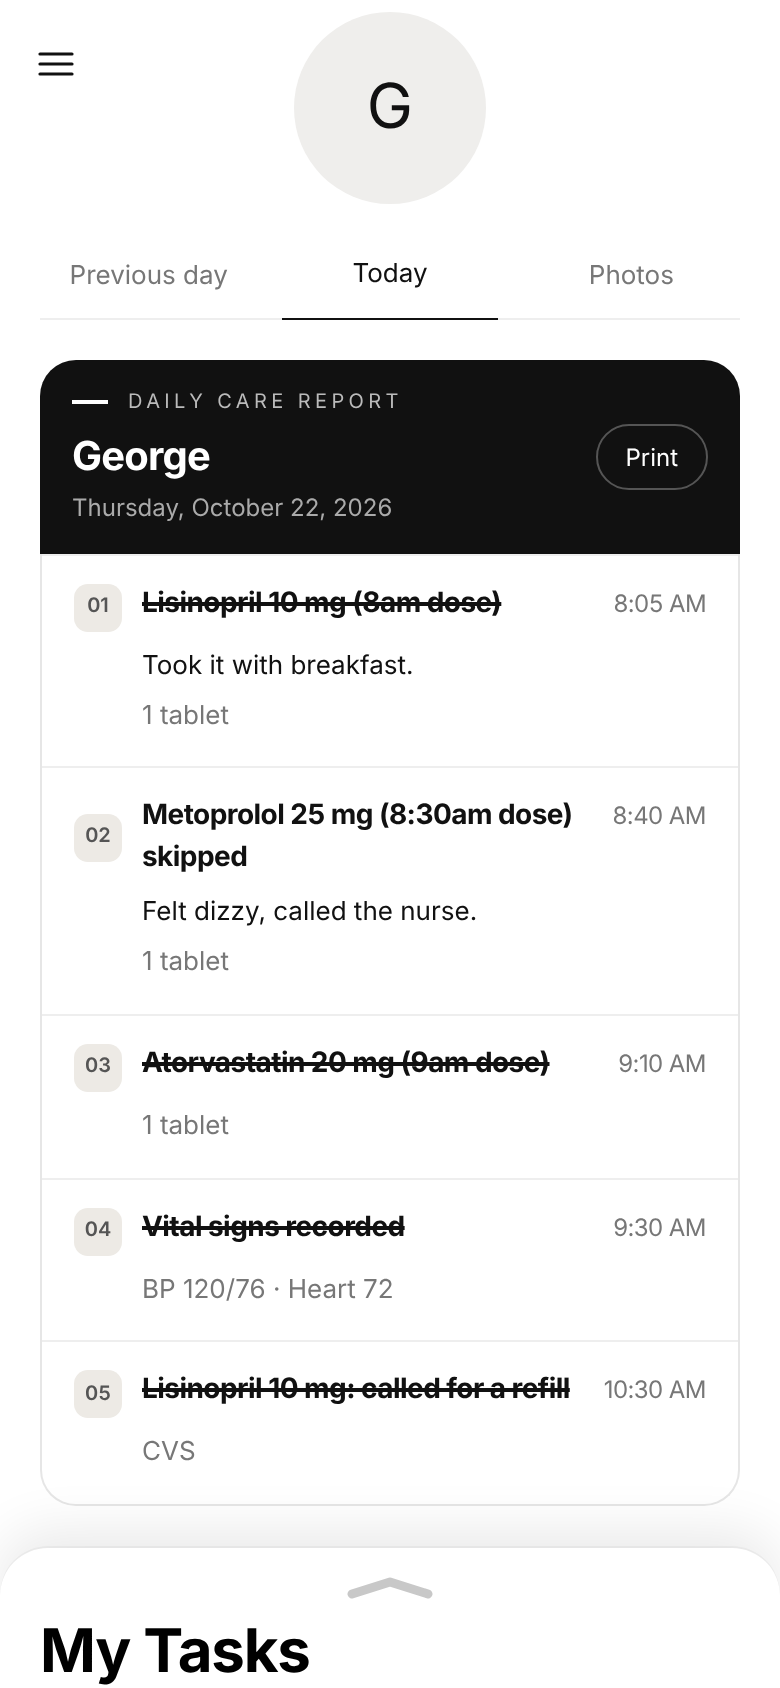
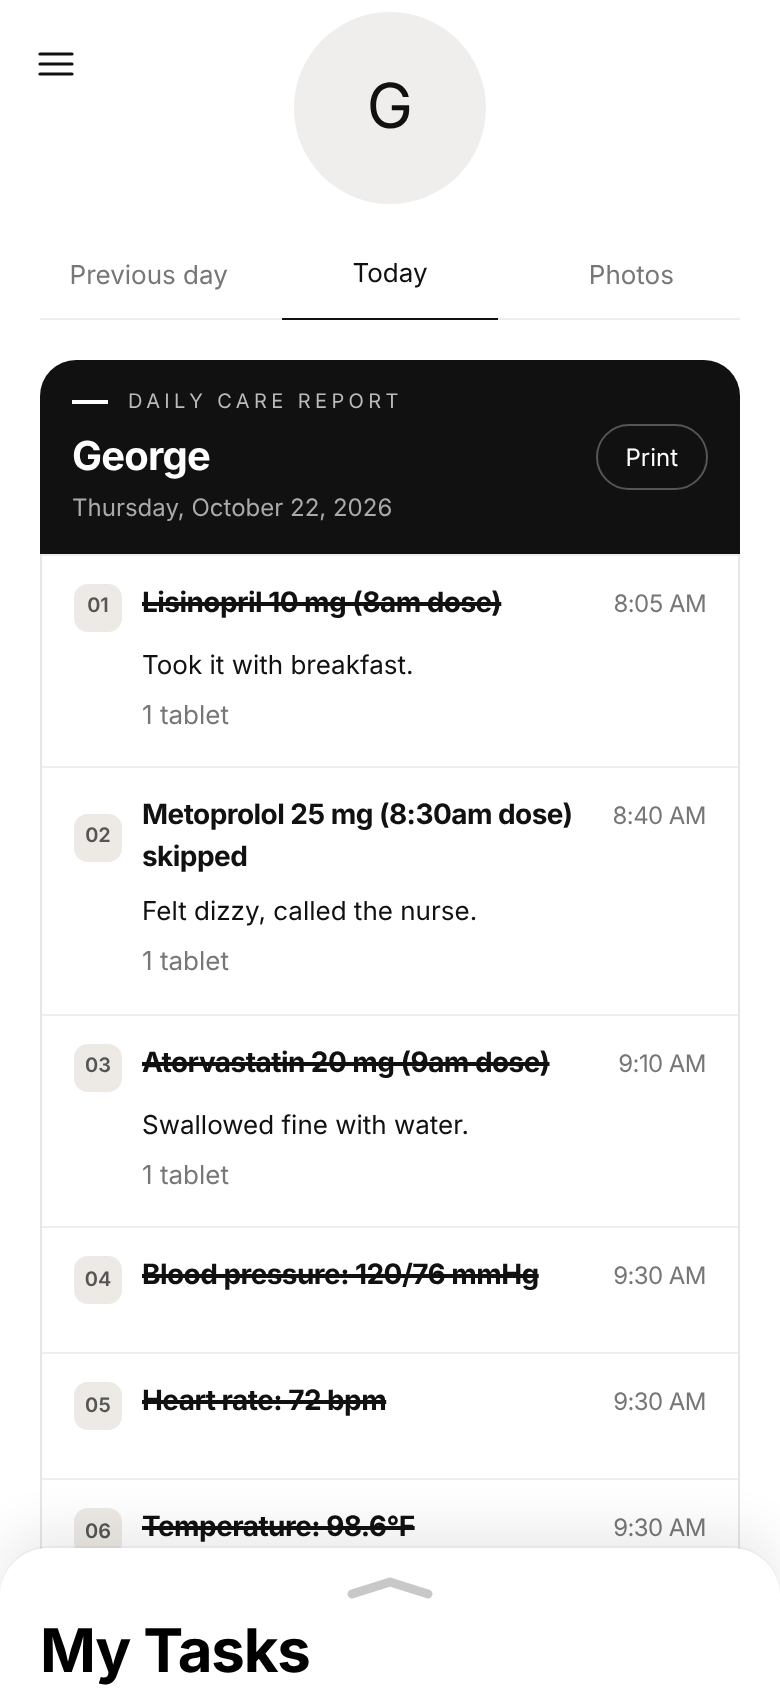
Daily report: no photo count, Photos numbered like Today with the medication and note, tap a photo to see it full size, each vital sign its own entry
Claude-Session: https://claude.ai/code/session_017USKdpXkGFWWPfz4CQxcZY

diff --git a/report.js b/report.js
@@ -1,39 +1,49 @@
 /* Home: the daily care report. Under the profile picture, three tabs (Previous day, Today, Photos), a small black banner with
    the person's name, the date and Print, then everything done that day as numbered entries in time order. Each entry has a
-   subhead saying what happened and its time stamp, then the note written during the task, then the details: how much and how
-   many photos. Done tasks are struck through; a dose says which one, as in "Lisinopril 10 mg (8am dose)". Photos shows the proof photos added to today's doses. The medication cards are on All
-   medications, in the menu. */
+   subhead saying what happened and its time stamp, then the note written during the task, then the details. Done tasks are
+   struck through; a dose says which one, as in "Lisinopril 10 mg (8am dose)"; each vital sign is its own entry. Photos shows
+   the proof photos added to today's doses, each with the same number as its entry on Today, the medication and its note;
+   tapping one opens it full size. The medication cards are on All medications, in the menu. */
 let reportTab='today';
 const reportTime=t=>new Date(t).toLocaleTimeString('en-US',{hour:'numeric',minute:'2-digit'});
 const reportDate=day=>C.parseDate(day).toLocaleDateString('en-US',{weekday:'long',month:'long',day:'numeric',year:'numeric'});
 const onDay=(t,day)=>!!t&&C.iso(new Date(t))===day;
 /* A dose time the short way: "08:00" is 8am, "20:30" is 8:30pm. */
 const shortClock=t=>{const [h,m]=String(t).split(':').map(Number);return `${h%12||12}${m?':'+String(m).padStart(2,'0'):''}${h<12?'am':'pm'}`};
+/* Each vital sign by its full name, and how its reading is written. */
+const REPORT_VITALS=[['bp','Blood pressure',x=>x+' mmHg'],['heart','Heart rate',x=>x+' bpm'],['temp','Temperature',x=>x+'°F'],['pain','Pain level',x=>x+' out of 10']];
 const REPORT_LOG={'refill-needed':'needs a refill','refill-called':'called for a refill','refill-ready':'refill ready to pick up',refilled:'refill picked up','picked-up':'picked up from the pharmacy'};
 
 /* Everything done on one day, oldest first: doses taken or skipped, vital signs, refill steps, visits and finished medications.
    Each entry: title (the subhead), done (struck through; a skipped dose isn't), at (its time), note (written during the task)
-   and details. Who marked it is left out: the report is already that person's. */
+   and details; a dose also has its medication's name and photos. Who marked it is left out: the report is already that
+   person's. A vital sign shows at the save where it was recorded: the form keeps the last readings, so one saved again
+   unchanged the same day isn't listed twice. */
 function reportEntries(list=items,day=today(),vitalsLog=settings.vitalsLog||(settings.vitals?[settings.vitals]:[])){const meds=list.filter(i=>i.med),out=[];
 for(const i of meds)for(const d of (i.doses||[]).filter(d=>dayOf(d)===day&&d.at&&['taken','skipped'].includes(d.kind)))
-out.push({title:`${i.name} (${d.slot?shortClock(d.slot)+' dose':'as-needed dose'})${d.kind==='skipped'?' skipped':''}`,done:d.kind==='taken',at:d.at,note:d.note||'',details:[i.dose,d.photos&&d.photos.length?`${d.photos.length} photo${d.photos.length>1?'s':''} added`:''].filter(Boolean)});
-for(const v of vitalsLog.filter(v=>onDay(v.at,day)))out.push({title:'Vital signs recorded',done:true,at:v.at,note:'',details:[[v.bp&&'BP '+v.bp,v.heart&&'Heart '+v.heart,v.temp&&'Temp '+v.temp+'°',v.pain&&'Pain '+v.pain+'/10'].filter(Boolean).join(' · ')]});
+out.push({title:`${i.name} (${d.slot?shortClock(d.slot)+' dose':'as-needed dose'})${d.kind==='skipped'?' skipped':''}`,done:d.kind==='taken',at:d.at,note:d.note||'',details:[i.dose].filter(Boolean),name:i.name,photos:d.photos||[]});
+vitalsLog.forEach((v,n)=>{if(!onDay(v.at,day))return;const before=vitalsLog.slice(0,n).reverse().find(x=>onDay(x.at,day))||{};
+for(const [k,label,reading] of REPORT_VITALS)if(v[k]&&v[k]!==before[k])out.push({title:`${label}: ${reading(v[k])}`,done:true,at:v.at,note:'',details:[]})});
 for(const i of meds)for(const l of (i.log||[]).filter(l=>onDay(l.at,day)&&REPORT_LOG[l.kind]))out.push({title:`${i.name}: ${REPORT_LOG[l.kind]}`,done:true,at:l.at,note:'',details:[i.pharmacy&&i.pharmacy.name||''].filter(Boolean)});
 for(const i of meds.filter(i=>i.status==='received'&&onDay(i.finishedAt,day)))out.push({title:`${i.name} finished`,done:true,at:i.finishedAt,note:'',details:['No more reminders for it']});
 for(const a of appointments(list).filter(a=>a.status==='received'&&a.date===day))out.push({title:`${a.name}: went`,done:true,at:day+'T'+(a.time||'12:00'),note:a.note||'',details:[a.place].filter(Boolean)});
 return out.sort((x,y)=>new Date(x.at)-new Date(y.at))}
 
-/* Today's proof photos, newest first, each with the medication and when it was marked. */
-function reportPhotos(list=items,day=today()){return list.filter(i=>i.med).flatMap(i=>(i.doses||[]).filter(d=>dayOf(d)===day).flatMap(d=>(d.photos||[]).map(src=>({src,name:i.name,at:d.at})))).sort((a,b)=>String(b.at).localeCompare(String(a.at)))}
+/* Today's proof photos in the order of Today's entries, each with that entry's number, the medication and the note. */
+function reportPhotos(list=items,day=today()){return reportEntries(list,day).flatMap((x,n)=>(x.photos||[]).map(src=>({src,n:n+1,name:x.name,note:x.note})))}
 
 function reportHTML(){const now=today(),day=reportTab==='previous'?C.shift(now,-1):now,who=welcomeName()||'Your care';
 const tabs=[['previous','Previous day'],['today','Today'],['photos','Photos']].map(([id,label])=>`<button data-report-tab="${id}" class="${reportTab===id?'active':''}" aria-pressed="${reportTab===id}">${label}</button>`).join('');
 const head=`<div class="gallery-filters report-tabs">${tabs}</div>`;
-if(reportTab==='photos'){const shots=reportPhotos(items,now);return `<section class="report">${head}${shots.length?`<div class="report-photos">${shots.map(p=>`<figure>${proofImg(p.src)}<figcaption><strong>${esc(p.name)}</strong>${p.at?esc(reportTime(p.at)):''}</figcaption></figure>`).join('')}</div>`:`<div class="report-empty"><svg viewBox="0 0 24 24" aria-hidden="true"><rect x="3.5" y="4.5" width="17" height="15" rx="2"/><circle cx="9" cy="10" r="1.6"/><path d="m4 18 5.5-5.5 4 4 2.5-2.5 4.5 4.5"/></svg><h2>No photos yet</h2><p>Photos added when a dose is taken will appear here.</p></div>`}</section>`}
+if(reportTab==='photos'){const shots=reportPhotos(items,now);return `<section class="report">${head}${shots.length?`<div class="report-photos">${shots.map(p=>`<figure><button class="report-photo-open" data-photo-view="${esc(p.src)}" aria-label="View the photo of ${esc(p.name)} full size">${proofImg(p.src)}</button><figcaption><span>${String(p.n).padStart(2,'0')}</span><div><strong>${esc(p.name)}</strong>${p.note?`<p>${esc(p.note)}</p>`:''}</div></figcaption></figure>`).join('')}</div>`:`<div class="report-empty"><svg viewBox="0 0 24 24" aria-hidden="true"><rect x="3.5" y="4.5" width="17" height="15" rx="2"/><circle cx="9" cy="10" r="1.6"/><path d="m4 18 5.5-5.5 4 4 2.5-2.5 4.5 4.5"/></svg><h2>No photos yet</h2><p>Photos added when a dose is taken will appear here.</p></div>`}</section>`}
 const entries=reportEntries(items,day),sections=entries.length?entries.map((x,n)=>`<div class="report-section${x.note?' wide':''}"><h3><span>${String(n+1).padStart(2,'0')}</span>${x.done?`<s>${esc(x.title)}</s>`:esc(x.title)}<time datetime="${esc(x.at)}">${esc(reportTime(x.at))}</time></h3>${x.note?`<p class="report-note-text">${esc(x.note)}</p>`:''}${x.details.length?`<ul>${x.details.map(l=>`<li>${esc(l)}</li>`).join('')}</ul>`:''}</div>`).join(''):`<div class="report-section wide"><p class="report-none">${day===now?'Nothing done yet today. Everything marked during the day shows here, with its time.':'Nothing was recorded this day.'}</p></div>`;
 return `<section class="report">${head}<div class="report-banner"><div><span>DAILY CARE REPORT</span><h2>${esc(who)}</h2><p>${esc(reportDate(day))}</p></div><button id="report-print">Print</button></div><div class="report-grid">${sections}</div></section>`}
 
-document.addEventListener('click',e=>{const b=e.target.closest('button');if(!b)return;if(b.dataset.reportTab){reportTab=b.dataset.reportTab;render();return}if(b.id==='report-print')window.print()});
+document.addEventListener('click',e=>{const b=e.target.closest('button');if(!b)return;if(b.dataset.reportTab){reportTab=b.dataset.reportTab;render();return}if(b.id==='report-print')window.print();if(b.dataset.photoView)viewPhoto(b.dataset.photoView)});
+
+/* A photo full size, on its own over the page; tapping anywhere or the × closes it. */
+function viewPhoto(src){let d=$('#photo-view');if(!d){d=document.createElement('dialog');d.id='photo-view';d.className='photo-view';document.body.append(d);d.addEventListener('click',()=>d.close())}
+d.innerHTML=`<button class="photo-view-x" aria-label="Close">×</button>${proofImg(src)}`;d.showModal()}
 
 /* Home is the profile picture, the report and My Tasks. All medications is the gallery on its own, with When to call under it. */
 const galleryBeforeReport=gallery;

diff --git a/home.css b/home.css
@@ -157,7 +157,12 @@
 .report-photos{display:grid;grid-template-columns:repeat(auto-fill,minmax(180px,1fr));gap:16px}
 .report-photos figure{margin:0}
 .report-photos img{width:100%;aspect-ratio:1;object-fit:cover;border-radius:16px;background:#edeae5;display:block}
-.report-photos figcaption{margin-top:8px;font-size:13px;color:#777}.report-photos figcaption strong{display:block;color:#111;font-size:14px}
+.report-photo-open{display:block;width:100%;padding:0;border-radius:16px;cursor:zoom-in}
+.report-photos figcaption{display:flex;gap:10px;margin-top:10px;font-size:13px;color:#777;line-height:1.45}.report-photos figcaption strong{display:block;color:#111;font-size:14px;font-weight:700;letter-spacing:-.02em}.report-photos figcaption p{margin:2px 0 0}
+.report-photos figcaption span{flex:none;display:grid;place-items:center;width:24px;height:24px;border-radius:7px;background:#edeae5;font-size:10px;font-weight:600;color:#555}
+.photo-view{width:100vw;height:100dvh;max-width:none!important;max-height:none;inset:0;margin:0;padding:0;border:0;border-radius:0;background:#000;display:none;place-items:center}.photo-view[open]{display:grid}.photo-view::backdrop{background:#000}
+.photo-view img{max-width:100%;max-height:100dvh;object-fit:contain;display:block}
+.photo-view-x{position:fixed;top:16px;right:16px;width:40px;height:40px;border-radius:50%;background:#fff;color:#111;font-size:24px;line-height:1}
 @media(max-width:650px){.report-grid{grid-template-columns:1fr}.report-section:not(.wide):nth-child(odd of :not(.wide)){border-right:0}.report-section{padding:14px 16px 16px}.report-banner{padding:14px 16px}.report-photos{grid-template-columns:1fr 1fr;gap:12px}}
 @media print{.global-header,.menu-open,.tasks-sheet,.report-tabs,#report-print,.profile-hero{display:none!important}#main{padding:0!important}.report-banner{-webkit-print-color-adjust:exact;print-color-adjust:exact}}
 /* Home: the profile picture sits a little higher and the report's tabs sit close under it. */

diff --git a/sw.js b/sw.js
@@ -1,6 +1,6 @@
 /* Adltrack service worker: keeps the app shell for offline starts, shows daily reminders sent by Web Push while the app is
    closed with their action buttons, and opens the item's Return step when one is tapped. Account data (/api/) is never cached here. */
-const SHELL = 'returnly-shell-v9';
+const SHELL = 'returnly-shell-v10';
 const SHELL_FILES = ['app.html', 'index.html', 'signin.html', 'signup.html', 'forgot.html', 'reset.html', 'email.html', 'style.css', 'on.css', 'klarna.css', 'precision.css', 'guided.css', 'home.css', 'menu.css', 'mobile.css', 'landing.css', 'type.css',
   'core.js', 'nudge.js', 'account.js', 'auth.js', 'app.js', 'features.js', 'klarna.js', 'precision.js', 'guided.js', 'home.js', 'schedule.js', 'refills.js', 'menu.js', 'push.js', 'remind.js', 'today.js', 'report.js', 'landing.js', 'oracle.woff2', 'assets/roboto-serif-light.woff2', 'assets/inter-var.woff2',
   'manifest.webmanifest', 'assets/icon-192.png', 'assets/icon-512.png', 'assets/apple-touch-icon.png'];
